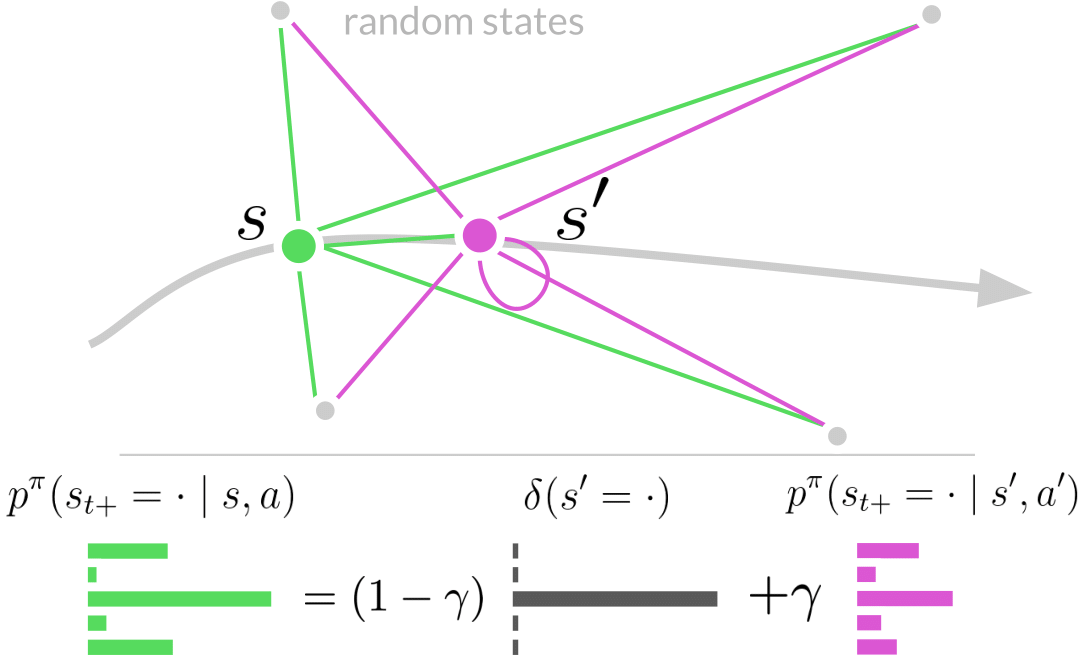
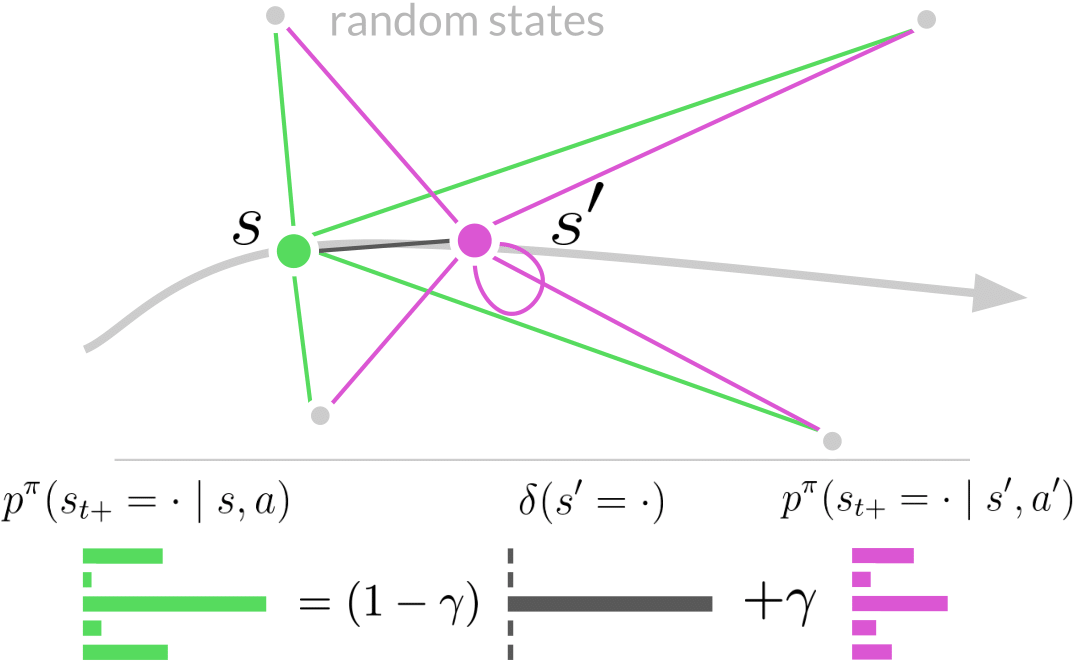
update td_infonce figure

diff --git a/README.md b/README.md
@@ -64,7 +64,7 @@ python lp_td_infonce.py
 --exp_log_dir=LOG_DIR
 ```
 
-## Acknowledgement
+## Acknowledgment
 
 The TD InfoNCE implementation was adapted from [contrastive RL](https://github.com/google-research/google-research/blob/master/contrastive_rl).
 
